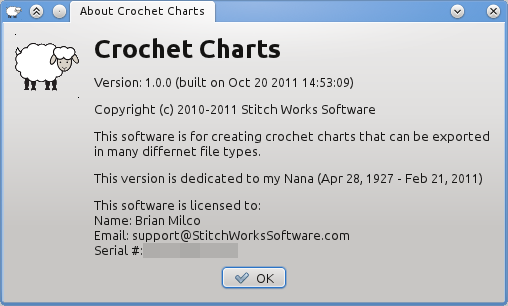
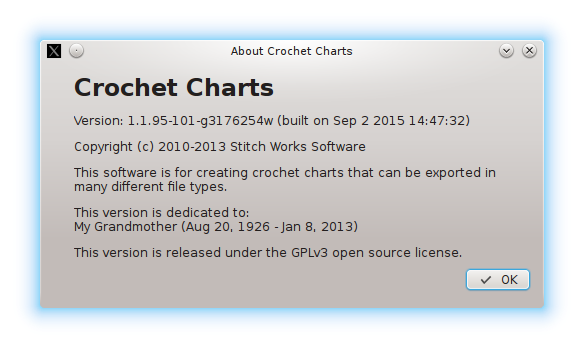
updated documentation with what is new, open source information, and changed speaking form. fixed bug with deleting chart center

diff --git a/src/scene.cpp b/src/scene.cpp
@@ -2998,18 +2998,12 @@ ItemGroup* Scene::group(QList<QGraphicsItem*> items, ItemGroup* g)
     if(!g) {
         g = new ItemGroup(0, this);
 		g->setLayer(getCurrentLayer()->uid());
-		
-		/*if (items.count() > 0) {
-			QRectF bigRect = items.first()->sceneBoundingRect();
-			foreach(QGraphicsItem* i, items) {
-				bigRect = bigRect.united(i->sceneBoundingRect());
-			}
-			g->setPos(bigRect.center());
-			g->setTransformOriginPoint(0, 0);
-		}*/
     }
 
     foreach(QGraphicsItem *i, items) {
+		//dont group the chart center
+		if (i->type() == QGraphicsEllipseItem::Type)
+			continue;
         i->setSelected(false);
         i->setFlag(QGraphicsItem::ItemIsSelectable, false);
         g->addToGroup(i);
